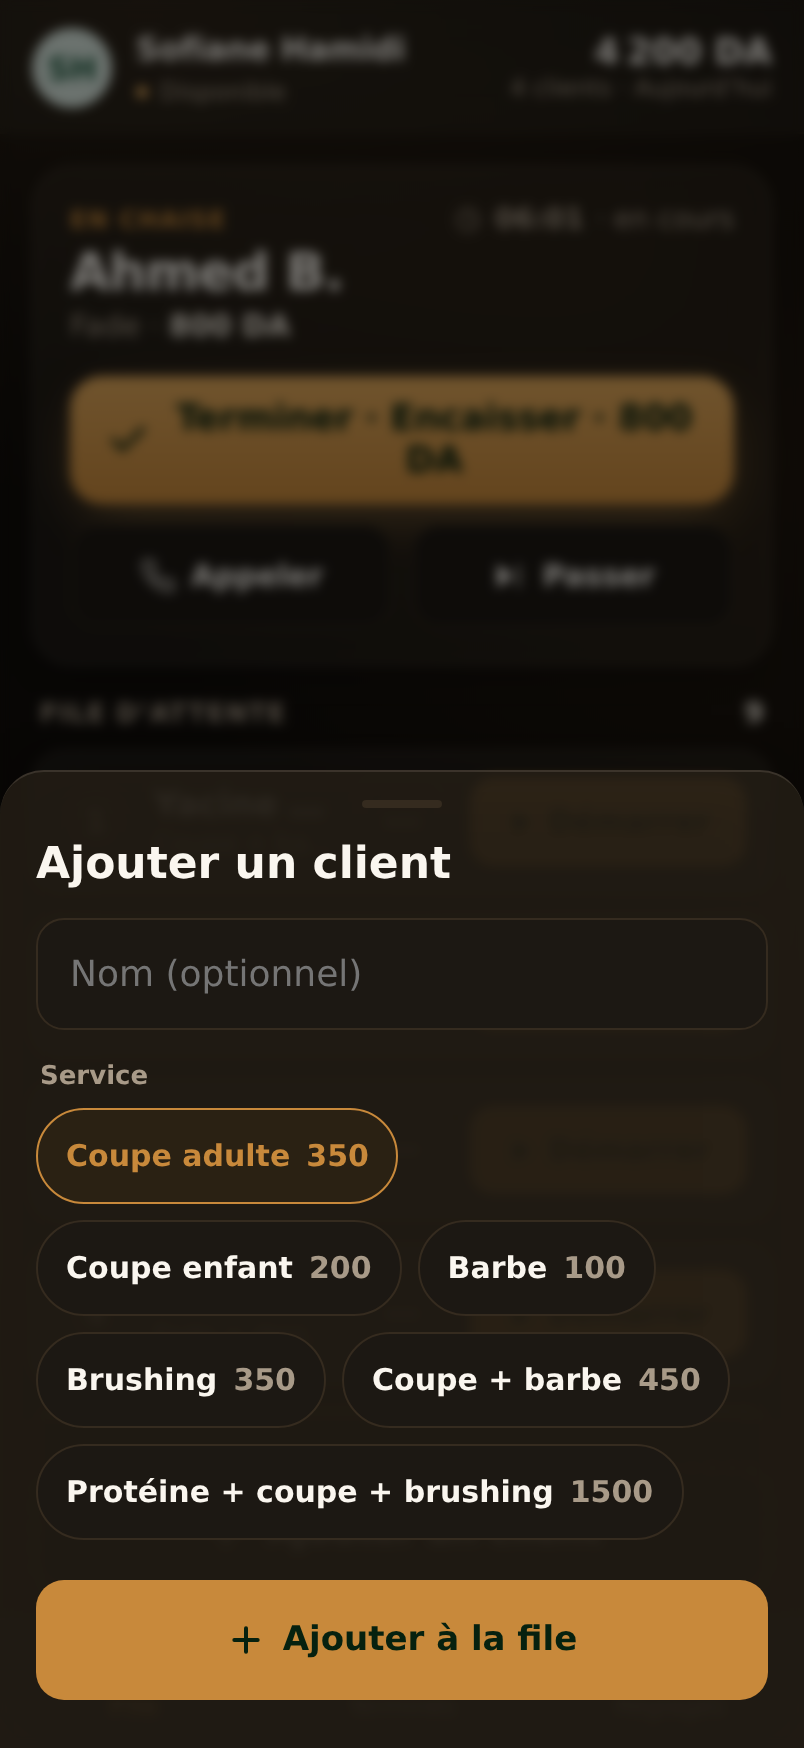
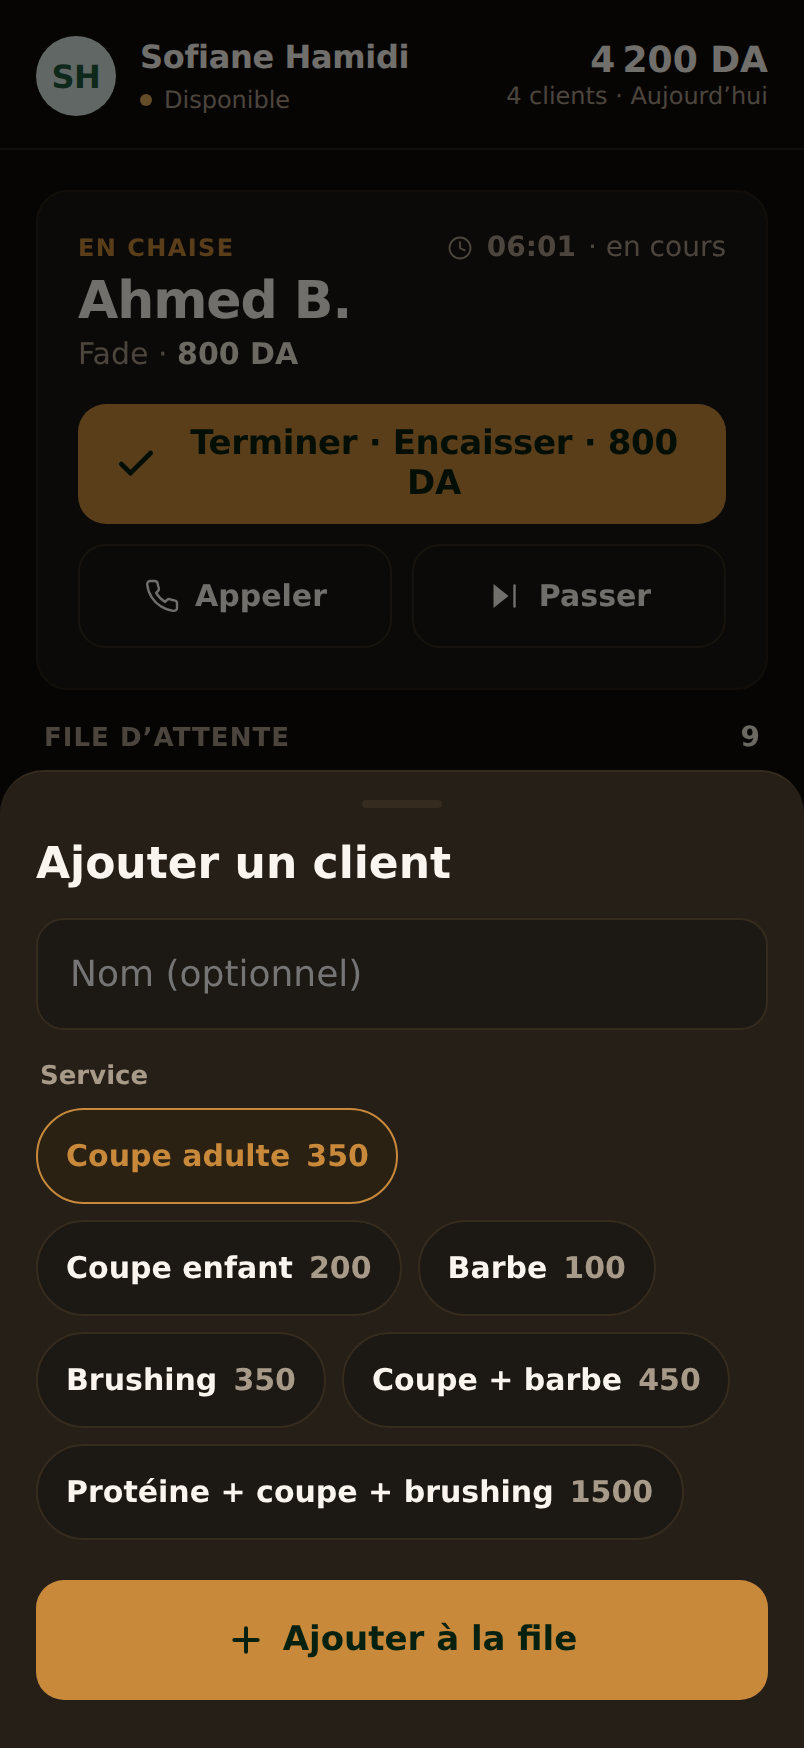
App design → Minimal Flat (barber app)
Switched the barber "Fast mode" app from glassmorphism to a clean minimal-flat
style (ui-ux-pro-max: flat / minimalism):
- Removed glass (translucent + backdrop blur), heavy shadows, button gradients
  and the green/brass glow.
- Flat solid surfaces with thin hairline borders; flat solid brass buttons;
  outline (1px) secondary buttons; plain scrim (no blur) behind sheets.
- More whitespace (header/body padding) and tighter radii for a crisp look.

App-only as requested (the booking site keeps its current style). Re-synced
app/. Verified console-clean; screenshots refreshed.

https://claude.ai/code/session_01KXeZ2jfMa8Hu5hkugmRzRp

diff --git a/app/src/barber-fast.jsx b/app/src/barber-fast.jsx
@@ -32,12 +32,11 @@ const FAST_STR = {
   },
 };
 
-// Frosted-glass surface (translucent + backdrop blur) for the panels.
-const GLASS = {
-  background: 'rgba(255, 248, 240, 0.05)',
-  backdropFilter: 'blur(14px) saturate(1.2)',
-  WebkitBackdropFilter: 'blur(14px) saturate(1.2)',
-  border: '1px solid rgba(255, 240, 220, 0.10)',
+// Flat panel — minimal style: solid surface + a thin hairline border, no glass,
+// no shadow, no gradient.
+const PANEL = {
+  background: TOKENS.surface,
+  border: `1px solid ${TOKENS.borderSoft}`,
 };
 
 // Smoothly counts a number up to its new value (skips when reduce-motion is on).
@@ -129,8 +128,7 @@ function BarberFast({ lang = 'fr', setLang, density = 'busy', barberId = 'sofian
 
   const shell = {
     height: '100%', display: 'flex', flexDirection: 'column', position: 'relative',
-    background: `radial-gradient(620px 420px at 18% 0%, rgba(224,168,91,0.10), transparent 60%),
-                 radial-gradient(560px 460px at 100% 26%, rgba(200,137,59,0.08), transparent 62%), ${TOKENS.paper}`,
+    background: TOKENS.paper,
     color: TOKENS.ink, direction: dir, fontFamily: t.fontFamily,
     overflow: 'hidden',
   };
@@ -139,9 +137,8 @@ function BarberFast({ lang = 'fr', setLang, density = 'busy', barberId = 'sofian
   return (
     <div style={shell} className="fast-shell">
       {/* ── Compact header: identity + glanceable today total ─────────────── */}
-      <div style={{ flexShrink: 0, padding: '14px 16px 12px',
+      <div style={{ flexShrink: 0, padding: '18px 18px 16px',
                     display: 'flex', alignItems: 'center', gap: 12,
-                    background: 'rgba(255, 248, 240, 0.04)', backdropFilter: 'blur(12px)', WebkitBackdropFilter: 'blur(12px)',
                     borderBottom: `1px solid ${TOKENS.borderSoft}` }}>
         <Avatar initials={barber.initials} tint={barber.tint} text={barber.text} photo={barber.photo} size={40} />
         <div style={{ flex: 1, minWidth: 0 }}>
@@ -158,14 +155,14 @@ function BarberFast({ lang = 'fr', setLang, density = 'busy', barberId = 'sofian
       </div>
 
       {/* ── Body ──────────────────────────────────────────────────────────── */}
-      <div style={{ flex: 1, minHeight: 0, overflow: 'auto', padding: '16px 16px 8px' }}>
+      <div style={{ flex: 1, minHeight: 0, overflow: 'auto', padding: '20px 18px 10px' }}>
         {tab === 'now' && (
           <>
             {/* CURRENT CLIENT — the focus, with the single most important action */}
             <div key={current ? 'chair-' + current.client.id : 'chair-empty'} className="fast-chair"
                  style={{ animation: 'fast-chair-in 280ms cubic-bezier(0.2,0.8,0.2,1)' }}>
             {current ? (
-              <div style={{ ...GLASS, borderRadius: 20, padding: 18, marginBottom: 16, boxShadow: TOKENS.shadowSm }}>
+              <div style={{ ...PANEL, borderRadius: 16, padding: 20, marginBottom: 16 }}>
                 <div style={{ display: 'flex', alignItems: 'center', justifyContent: 'space-between', marginBottom: 4 }}>
                   <span style={{ fontSize: 12, fontWeight: 700, letterSpacing: '0.06em', textTransform: 'uppercase', color: TOKENS.accent }}>{L.inChair}</span>
                   <span style={{ display: 'inline-flex', alignItems: 'center', gap: 6, fontSize: 14, fontWeight: 600,
@@ -199,7 +196,7 @@ function BarberFast({ lang = 'fr', setLang, density = 'busy', barberId = 'sofian
                     <span>{L.startNext} · {waiting[0].name}</span>
                   </button>
                 ) : (
-                  <div style={{ ...GLASS, borderRadius: 20, padding: '26px 18px', textAlign: 'center', color: TOKENS.muted }}>
+                  <div style={{ ...PANEL, borderRadius: 16, padding: '28px 18px', textAlign: 'center', color: TOKENS.muted }}>
                     <div style={{ fontSize: 16, fontWeight: 600, color: TOKENS.inkSoft }}>{L.chairFree}</div>
                     <div style={{ fontSize: 14, marginTop: 6 }}>{L.empty}</div>
                   </div>
@@ -241,7 +238,7 @@ function BarberFast({ lang = 'fr', setLang, density = 'busy', barberId = 'sofian
 
       {/* ── Bottom tab bar (3 large targets) ────────────────────────────────── */}
       <div style={{ flexShrink: 0, display: 'flex', borderTop: `1px solid ${TOKENS.borderSoft}`,
-                    background: 'rgba(255, 248, 240, 0.04)', backdropFilter: 'blur(12px)', WebkitBackdropFilter: 'blur(12px)', paddingBottom: 6 }}>
+                    background: TOKENS.paper, paddingBottom: 6 }}>
         {[['now', 'list', L.tabNow], ['done', 'check', L.tabDone], ['more', 'settings', L.tabMore]].map(([id, icon, label]) => (
           <button key={id} onClick={() => setTab(id)} style={{
             flex: 1, appearance: 'none', border: 'none', background: 'transparent', cursor: 'pointer',
@@ -266,7 +263,7 @@ function BarberFast({ lang = 'fr', setLang, density = 'busy', barberId = 'sofian
         .fast-shell button { transition: transform 90ms ease; -webkit-tap-highlight-color: transparent; }
         .fast-shell button:active { transform: scale(0.965); }
         .fast-shell .fast-row { transition: transform 130ms ease, box-shadow 130ms ease; }
-        .fast-shell .fast-row:hover { transform: translateY(-1px); box-shadow: 0 14px 28px -12px rgba(0,0,0,0.6); }
+        .fast-shell .fast-row:hover { background: #251F17; }
         @media (prefers-reduced-motion: reduce) {
           .fast-shell button:active { transform: none; }
           .fast-shell .fast-chair, .fast-shell .fast-row { animation: none !important; }
@@ -277,16 +274,12 @@ function BarberFast({ lang = 'fr', setLang, density = 'busy', barberId = 'sofian
 
   // styled-button helpers (kept inside for token access)
   function bigBtn(bg, fg, dashed, outline) {
-    const isAccent = bg === TOKENS.accent && !outline;
     return {
-      width: '100%', minHeight: 64, borderRadius: 16, cursor: 'pointer', fontFamily: 'inherit',
-      background: outline ? 'transparent'
-        : (isAccent ? `linear-gradient(180deg, ${TOKENS.accentBright}, ${TOKENS.accent})` : bg),
-      color: fg,
-      border: outline ? `2px dashed ${TOKENS.border}` : 'none',
-      boxShadow: isAccent ? TOKENS.glow : 'none',
+      width: '100%', minHeight: 60, borderRadius: 14, cursor: 'pointer', fontFamily: 'inherit',
+      background: outline ? 'transparent' : bg, color: fg,
+      border: outline ? `1px solid ${TOKENS.border}` : 'none',
       display: 'inline-flex', alignItems: 'center', justifyContent: 'center', gap: 10,
-      fontSize: 18, fontWeight: 800, letterSpacing: '-0.01em', marginTop: 16, padding: '0 18px',
+      fontSize: 17, fontWeight: 700, letterSpacing: '-0.01em', marginTop: 16, padding: '0 18px',
     };
   }
   function smallBtn() {
@@ -302,8 +295,8 @@ function BarberFast({ lang = 'fr', setLang, density = 'busy', barberId = 'sofian
 // One large queue row — name + service + one-tap "Start", with no-show tucked away.
 function FastRow({ c, i, lang, L, fmt, onStart, onNoShow, startSide }) {
   return (
-    <div className="fast-row" style={{ ...GLASS, borderRadius: 16, padding: '12px 12px 12px 14px',
-                  display: 'flex', alignItems: 'center', gap: 12, minHeight: 72, boxShadow: TOKENS.shadowSm,
+    <div className="fast-row" style={{ ...PANEL, borderRadius: 14, padding: '12px 12px 12px 14px',
+                  display: 'flex', alignItems: 'center', gap: 12, minHeight: 72,
                   animation: 'fast-row-in 260ms ease both', animationDelay: `${Math.min(i, 6) * 35}ms` }}>
       <div style={{ width: 34, height: 34, borderRadius: '50%', flexShrink: 0,
                     background: TOKENS.surfaceAlt, color: TOKENS.muted, fontWeight: 700,
@@ -470,15 +463,14 @@ function FastToast({ msg }) {
 
 // shared sheet chrome
 function overlay() {
-  return { position: 'absolute', inset: 0, zIndex: 150, background: 'rgba(0,0,0,0.5)',
-           backdropFilter: 'blur(3px)', WebkitBackdropFilter: 'blur(3px)',
+  return { position: 'absolute', inset: 0, zIndex: 150, background: 'rgba(0,0,0,0.55)',
            display: 'flex', flexDirection: 'column', justifyContent: 'flex-end', animation: 'fast-fade 160ms ease-out' };
 }
 function sheet(dir) {
-  return { background: 'rgba(37, 31, 23, 0.80)', backdropFilter: 'blur(22px) saturate(1.2)', WebkitBackdropFilter: 'blur(22px) saturate(1.2)',
+  return { background: TOKENS.surfaceAlt,
            borderRadius: '22px 22px 0 0', padding: '14px 18px 24px',
            direction: dir, animation: 'fast-up 240ms cubic-bezier(0.2,0.8,0.2,1)',
-           borderTop: `1px solid rgba(255, 240, 220, 0.12)`, boxShadow: TOKENS.shadowLg };
+           borderTop: `1px solid ${TOKENS.border}`, boxShadow: TOKENS.shadowLg };
 }
 function grabber() {
   return { width: 40, height: 4, borderRadius: 999, background: TOKENS.border, margin: '0 auto 16px' };

diff --git a/src/barber-fast.jsx b/src/barber-fast.jsx
@@ -32,12 +32,11 @@ const FAST_STR = {
   },
 };
 
-// Frosted-glass surface (translucent + backdrop blur) for the panels.
-const GLASS = {
-  background: 'rgba(255, 248, 240, 0.05)',
-  backdropFilter: 'blur(14px) saturate(1.2)',
-  WebkitBackdropFilter: 'blur(14px) saturate(1.2)',
-  border: '1px solid rgba(255, 240, 220, 0.10)',
+// Flat panel — minimal style: solid surface + a thin hairline border, no glass,
+// no shadow, no gradient.
+const PANEL = {
+  background: TOKENS.surface,
+  border: `1px solid ${TOKENS.borderSoft}`,
 };
 
 // Smoothly counts a number up to its new value (skips when reduce-motion is on).
@@ -129,8 +128,7 @@ function BarberFast({ lang = 'fr', setLang, density = 'busy', barberId = 'sofian
 
   const shell = {
     height: '100%', display: 'flex', flexDirection: 'column', position: 'relative',
-    background: `radial-gradient(620px 420px at 18% 0%, rgba(224,168,91,0.10), transparent 60%),
-                 radial-gradient(560px 460px at 100% 26%, rgba(200,137,59,0.08), transparent 62%), ${TOKENS.paper}`,
+    background: TOKENS.paper,
     color: TOKENS.ink, direction: dir, fontFamily: t.fontFamily,
     overflow: 'hidden',
   };
@@ -139,9 +137,8 @@ function BarberFast({ lang = 'fr', setLang, density = 'busy', barberId = 'sofian
   return (
     <div style={shell} className="fast-shell">
       {/* ── Compact header: identity + glanceable today total ─────────────── */}
-      <div style={{ flexShrink: 0, padding: '14px 16px 12px',
+      <div style={{ flexShrink: 0, padding: '18px 18px 16px',
                     display: 'flex', alignItems: 'center', gap: 12,
-                    background: 'rgba(255, 248, 240, 0.04)', backdropFilter: 'blur(12px)', WebkitBackdropFilter: 'blur(12px)',
                     borderBottom: `1px solid ${TOKENS.borderSoft}` }}>
         <Avatar initials={barber.initials} tint={barber.tint} text={barber.text} photo={barber.photo} size={40} />
         <div style={{ flex: 1, minWidth: 0 }}>
@@ -158,14 +155,14 @@ function BarberFast({ lang = 'fr', setLang, density = 'busy', barberId = 'sofian
       </div>
 
       {/* ── Body ──────────────────────────────────────────────────────────── */}
-      <div style={{ flex: 1, minHeight: 0, overflow: 'auto', padding: '16px 16px 8px' }}>
+      <div style={{ flex: 1, minHeight: 0, overflow: 'auto', padding: '20px 18px 10px' }}>
         {tab === 'now' && (
           <>
             {/* CURRENT CLIENT — the focus, with the single most important action */}
             <div key={current ? 'chair-' + current.client.id : 'chair-empty'} className="fast-chair"
                  style={{ animation: 'fast-chair-in 280ms cubic-bezier(0.2,0.8,0.2,1)' }}>
             {current ? (
-              <div style={{ ...GLASS, borderRadius: 20, padding: 18, marginBottom: 16, boxShadow: TOKENS.shadowSm }}>
+              <div style={{ ...PANEL, borderRadius: 16, padding: 20, marginBottom: 16 }}>
                 <div style={{ display: 'flex', alignItems: 'center', justifyContent: 'space-between', marginBottom: 4 }}>
                   <span style={{ fontSize: 12, fontWeight: 700, letterSpacing: '0.06em', textTransform: 'uppercase', color: TOKENS.accent }}>{L.inChair}</span>
                   <span style={{ display: 'inline-flex', alignItems: 'center', gap: 6, fontSize: 14, fontWeight: 600,
@@ -199,7 +196,7 @@ function BarberFast({ lang = 'fr', setLang, density = 'busy', barberId = 'sofian
                     <span>{L.startNext} · {waiting[0].name}</span>
                   </button>
                 ) : (
-                  <div style={{ ...GLASS, borderRadius: 20, padding: '26px 18px', textAlign: 'center', color: TOKENS.muted }}>
+                  <div style={{ ...PANEL, borderRadius: 16, padding: '28px 18px', textAlign: 'center', color: TOKENS.muted }}>
                     <div style={{ fontSize: 16, fontWeight: 600, color: TOKENS.inkSoft }}>{L.chairFree}</div>
                     <div style={{ fontSize: 14, marginTop: 6 }}>{L.empty}</div>
                   </div>
@@ -241,7 +238,7 @@ function BarberFast({ lang = 'fr', setLang, density = 'busy', barberId = 'sofian
 
       {/* ── Bottom tab bar (3 large targets) ────────────────────────────────── */}
       <div style={{ flexShrink: 0, display: 'flex', borderTop: `1px solid ${TOKENS.borderSoft}`,
-                    background: 'rgba(255, 248, 240, 0.04)', backdropFilter: 'blur(12px)', WebkitBackdropFilter: 'blur(12px)', paddingBottom: 6 }}>
+                    background: TOKENS.paper, paddingBottom: 6 }}>
         {[['now', 'list', L.tabNow], ['done', 'check', L.tabDone], ['more', 'settings', L.tabMore]].map(([id, icon, label]) => (
           <button key={id} onClick={() => setTab(id)} style={{
             flex: 1, appearance: 'none', border: 'none', background: 'transparent', cursor: 'pointer',
@@ -266,7 +263,7 @@ function BarberFast({ lang = 'fr', setLang, density = 'busy', barberId = 'sofian
         .fast-shell button { transition: transform 90ms ease; -webkit-tap-highlight-color: transparent; }
         .fast-shell button:active { transform: scale(0.965); }
         .fast-shell .fast-row { transition: transform 130ms ease, box-shadow 130ms ease; }
-        .fast-shell .fast-row:hover { transform: translateY(-1px); box-shadow: 0 14px 28px -12px rgba(0,0,0,0.6); }
+        .fast-shell .fast-row:hover { background: #251F17; }
         @media (prefers-reduced-motion: reduce) {
           .fast-shell button:active { transform: none; }
           .fast-shell .fast-chair, .fast-shell .fast-row { animation: none !important; }
@@ -277,16 +274,12 @@ function BarberFast({ lang = 'fr', setLang, density = 'busy', barberId = 'sofian
 
   // styled-button helpers (kept inside for token access)
   function bigBtn(bg, fg, dashed, outline) {
-    const isAccent = bg === TOKENS.accent && !outline;
     return {
-      width: '100%', minHeight: 64, borderRadius: 16, cursor: 'pointer', fontFamily: 'inherit',
-      background: outline ? 'transparent'
-        : (isAccent ? `linear-gradient(180deg, ${TOKENS.accentBright}, ${TOKENS.accent})` : bg),
-      color: fg,
-      border: outline ? `2px dashed ${TOKENS.border}` : 'none',
-      boxShadow: isAccent ? TOKENS.glow : 'none',
+      width: '100%', minHeight: 60, borderRadius: 14, cursor: 'pointer', fontFamily: 'inherit',
+      background: outline ? 'transparent' : bg, color: fg,
+      border: outline ? `1px solid ${TOKENS.border}` : 'none',
       display: 'inline-flex', alignItems: 'center', justifyContent: 'center', gap: 10,
-      fontSize: 18, fontWeight: 800, letterSpacing: '-0.01em', marginTop: 16, padding: '0 18px',
+      fontSize: 17, fontWeight: 700, letterSpacing: '-0.01em', marginTop: 16, padding: '0 18px',
     };
   }
   function smallBtn() {
@@ -302,8 +295,8 @@ function BarberFast({ lang = 'fr', setLang, density = 'busy', barberId = 'sofian
 // One large queue row — name + service + one-tap "Start", with no-show tucked away.
 function FastRow({ c, i, lang, L, fmt, onStart, onNoShow, startSide }) {
   return (
-    <div className="fast-row" style={{ ...GLASS, borderRadius: 16, padding: '12px 12px 12px 14px',
-                  display: 'flex', alignItems: 'center', gap: 12, minHeight: 72, boxShadow: TOKENS.shadowSm,
+    <div className="fast-row" style={{ ...PANEL, borderRadius: 14, padding: '12px 12px 12px 14px',
+                  display: 'flex', alignItems: 'center', gap: 12, minHeight: 72,
                   animation: 'fast-row-in 260ms ease both', animationDelay: `${Math.min(i, 6) * 35}ms` }}>
       <div style={{ width: 34, height: 34, borderRadius: '50%', flexShrink: 0,
                     background: TOKENS.surfaceAlt, color: TOKENS.muted, fontWeight: 700,
@@ -470,15 +463,14 @@ function FastToast({ msg }) {
 
 // shared sheet chrome
 function overlay() {
-  return { position: 'absolute', inset: 0, zIndex: 150, background: 'rgba(0,0,0,0.5)',
-           backdropFilter: 'blur(3px)', WebkitBackdropFilter: 'blur(3px)',
+  return { position: 'absolute', inset: 0, zIndex: 150, background: 'rgba(0,0,0,0.55)',
            display: 'flex', flexDirection: 'column', justifyContent: 'flex-end', animation: 'fast-fade 160ms ease-out' };
 }
 function sheet(dir) {
-  return { background: 'rgba(37, 31, 23, 0.80)', backdropFilter: 'blur(22px) saturate(1.2)', WebkitBackdropFilter: 'blur(22px) saturate(1.2)',
+  return { background: TOKENS.surfaceAlt,
            borderRadius: '22px 22px 0 0', padding: '14px 18px 24px',
            direction: dir, animation: 'fast-up 240ms cubic-bezier(0.2,0.8,0.2,1)',
-           borderTop: `1px solid rgba(255, 240, 220, 0.12)`, boxShadow: TOKENS.shadowLg };
+           borderTop: `1px solid ${TOKENS.border}`, boxShadow: TOKENS.shadowLg };
 }
 function grabber() {
   return { width: 40, height: 4, borderRadius: 999, background: TOKENS.border, margin: '0 auto 16px' };
